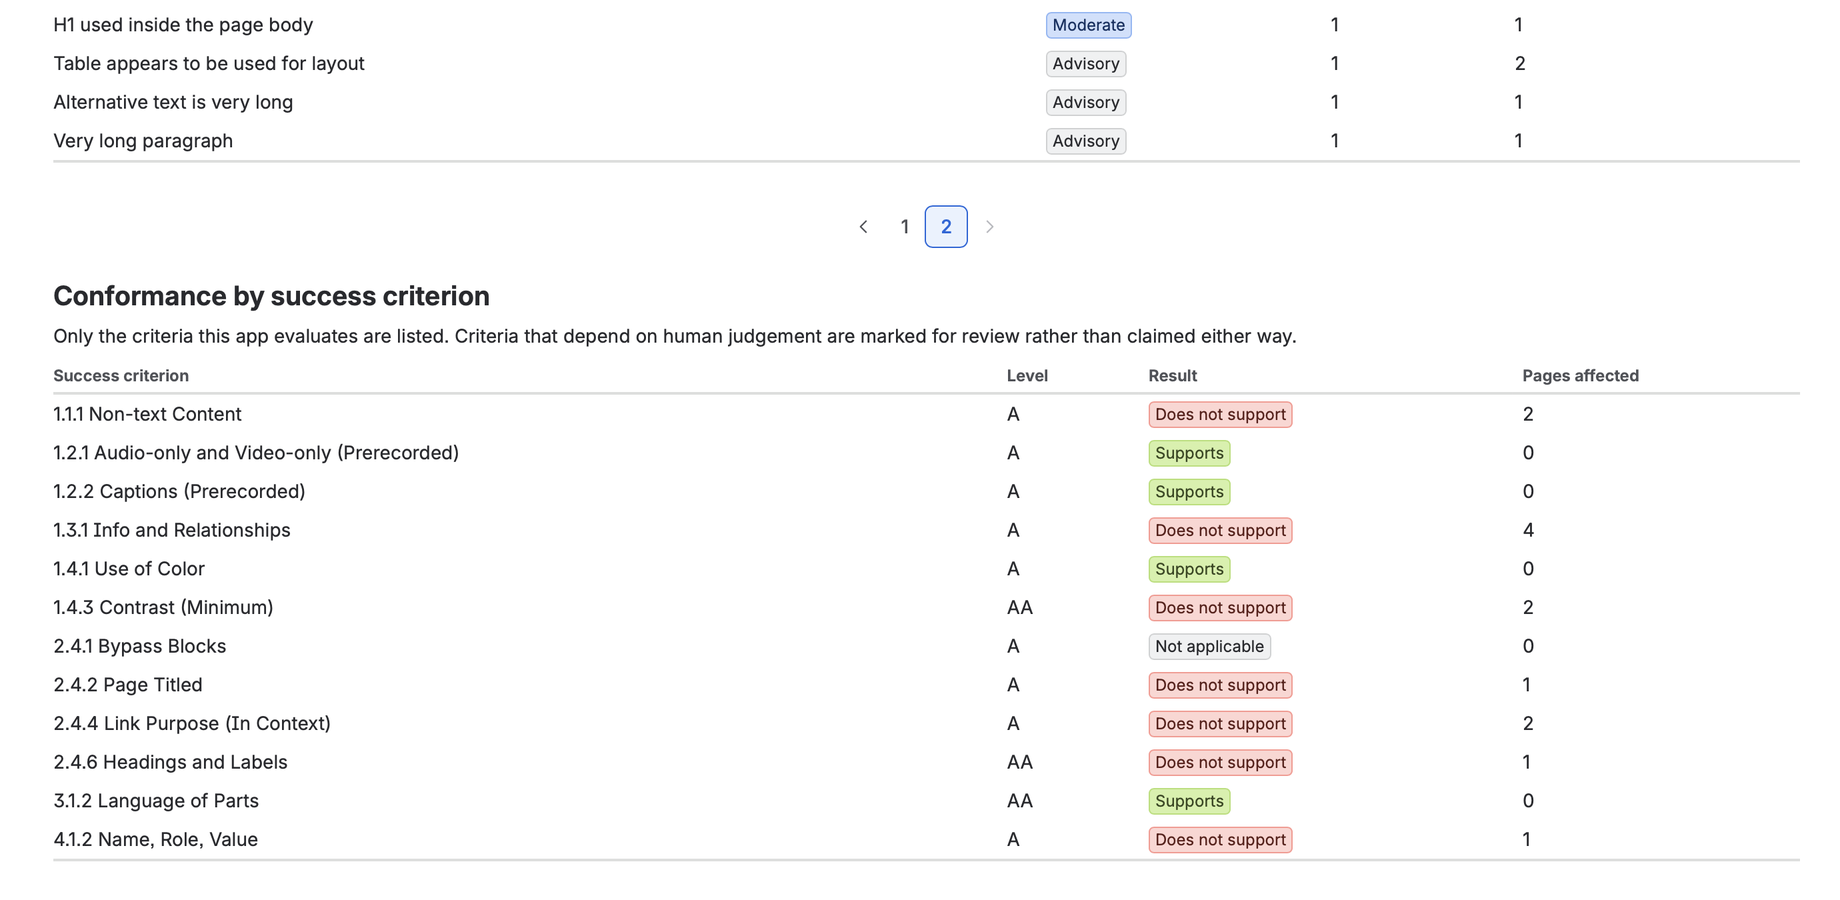
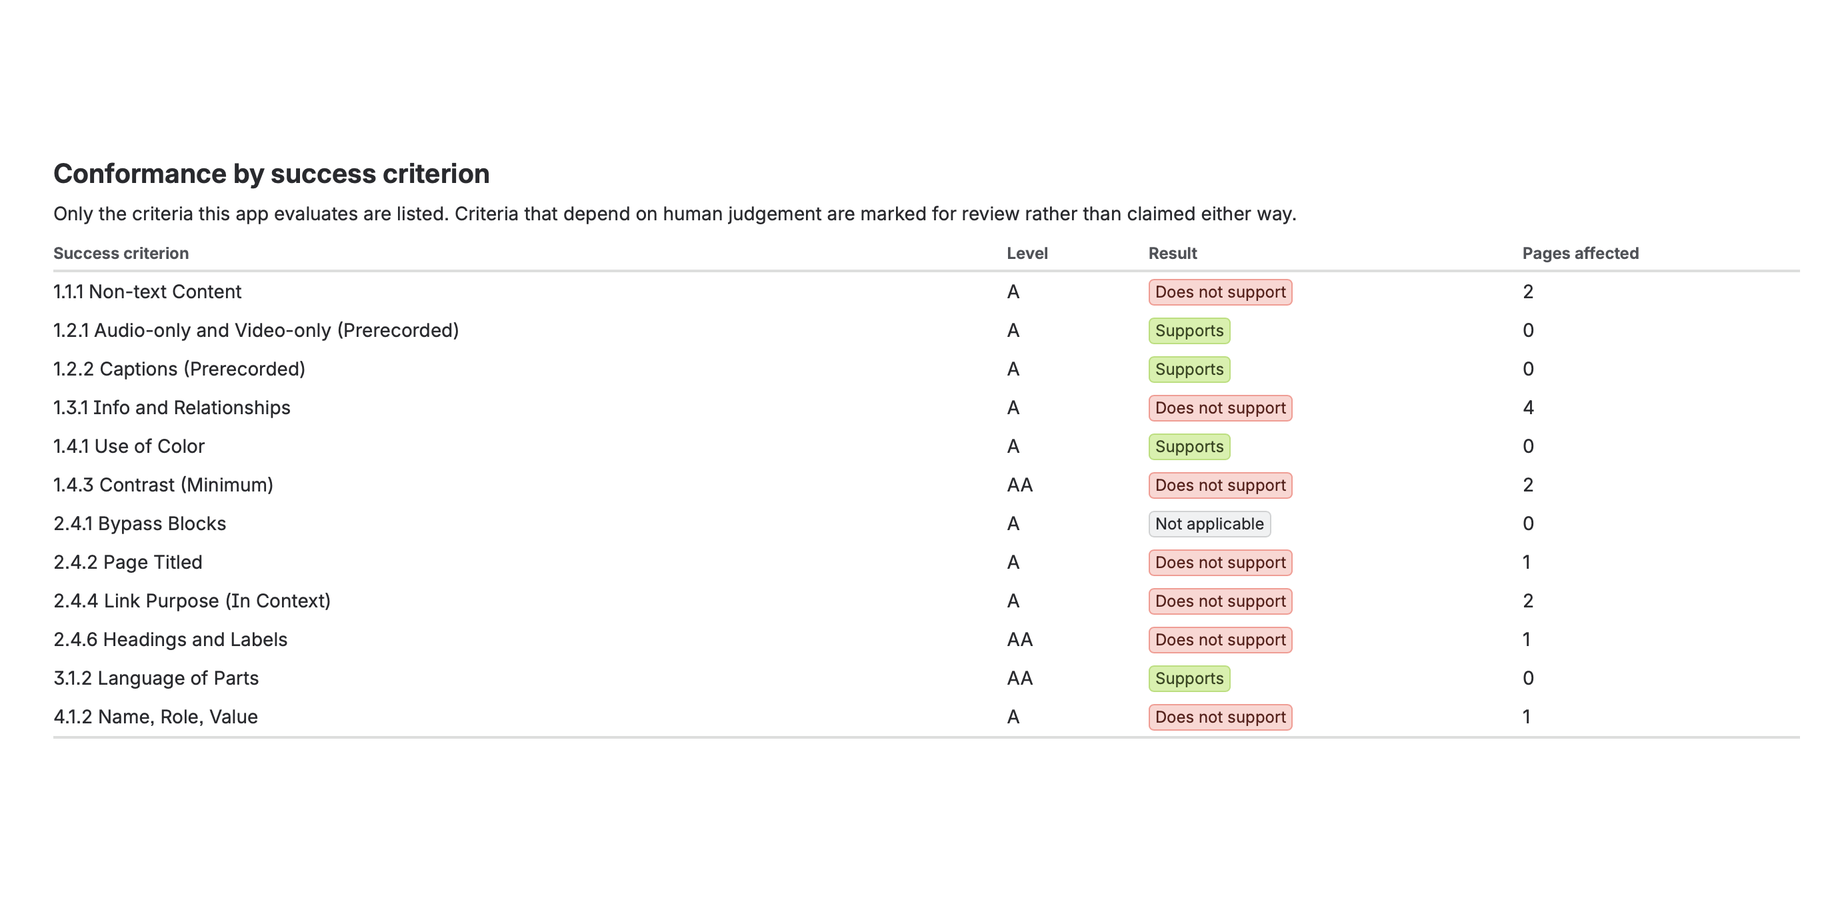
Encode the handover constraints as a check instead of remembering them
The owner has been catching things I should have: images made before reading the
form's required sizes, crops that trimmed table columns, an app name that broke
Atlassian's <App Name> for <Product> rule, and category advice drawn from a
catalogue snapshot whose taxonomy the form had replaced.

Listing copy now lives in docs/listing.json, and tools/preflight.mjs checks it
against the limits that actually apply: character caps, trailing punctuation,
the naming rule, exact image dimensions, and whether any published rule count
has drifted from what the engine ships. 24 checks, all passing.

The listing docs are corrected too: the rejected name is gone, the categories
section says to read the live list rather than trusting a stale taxonomy, and
the screenshot plan matches the four images that exist.

diff --git a/docs/marketplace-listing.md b/docs/marketplace-listing.md
@@ -4,21 +4,30 @@ Everything below is the copy to paste into the listing form. Character counts ar
 Atlassian limits at time of writing; re-check them in the form.
 
 ## App name (≤ 60)
-`Accessibility Checker for Confluence — WCAG, ADA, 508`
-(53 characters)
+`WCAG & ADA Accessibility Checker for Confluence`
+(47 characters)
 
-Reasoning: the name is the strongest ranking signal in Marketplace search, and it is also
-what shows in Google results for “confluence accessibility”. The three standards are the
-terms compliance buyers search for by name.
+Atlassian enforces a naming rule: when the name contains one of their product names it
+must read `<App Name> for <Product Name>`, with nothing after the product. An earlier
+version ending in "— WCAG, ADA, 508" was rejected by the form. The keywords therefore sit
+in front, which keeps the search terms and satisfies the rule.
 
 ## Summary / tagline (≤ 140)
 `Check every page against WCAG 2.2, fix issues in place, and publish the conformance report your auditor asks for.`
 (112 characters)
 
 ## Categories
-1. **Admin tools** — where site administrators browse.
-2. **Documentation** — where the content owners browse.
-3. **Reports** — the report is half the value.
+
+The form allows **two**, and uses a taxonomy that replaced the one in `research/`. Read the
+list off the form rather than trusting any category name written here. Choose, in order of
+preference:
+
+1. Anything naming compliance, governance, security or risk — that is the buyer's shelf.
+2. Otherwise `Content and communication` — the app works on content.
+3. Otherwise `Administrative tools` — the admin installs and pays.
+
+Not `Data and analytics`: it is for business data analysis, and the people browsing it are
+not looking for us.
 
 ## Highlights
 

diff --git a/docs/launch-runbook.md b/docs/launch-runbook.md
@@ -7,7 +7,8 @@ this machine, and each step lists how it is verified.
 
 | Check | Command | State |
 |---|---|---|
-| Engine tests | `npm --workspace @clearwren/a11y-engine test` | 28 passing |
+| Listing and asset rules | `node tools/preflight.mjs` | 24 checks passing |
+| Engine tests | `npm --workspace @clearwren/a11y-engine test` | 36 passing |
 | Manifest schema | `node tools/validate-manifest.mjs` | valid |
 | Backend bundles | `npx esbuild src/index.js --bundle --platform=node` | clean |
 | All four UI entries bundle | esbuild per resource | clean |
@@ -40,7 +41,7 @@ engine's own expectations.
 
 ## Phase 3 — listing (days 5–8)
 
-1. Take the five screenshots listed in `docs/marketplace-listing.md`.
+1. Produce the four images at the sizes the form requires, listed in `docs/marketplace-listing.md`.
 2. Create the listing with the copy in that file; set the pricing tiers exactly as given.
 3. Point the required URLs at `clearwren.com`.
 4. Complete the security questionnaire — the app makes no egress calls, stores no personal

diff --git a/README.md b/README.md
@@ -28,7 +28,14 @@ have to exist before the app can be registered and listed.
 ## Pre-flight checks that run without an Atlassian account
 
 ```bash
+node tools/preflight.mjs           # everything below, plus the listing rules — run this first
 node tools/validate-manifest.mjs   # manifest.yml against the schema in @forge/manifest
 node tools/selfcheck.mjs           # our own site, checked by our own engine
 node tools/validate.mjs            # the engine against saved real-world pages
 ```
+
+`preflight.mjs` encodes the constraints of the systems we hand work to: image dimensions,
+character limits, Atlassian's `<App Name> for <Product>` naming rule, and whether any
+published claim has drifted from what the engine ships. Every rule in it is there because
+getting it wrong once cost a round trip. Listing copy lives in `docs/listing.json` so those
+limits can be checked rather than remembered.

diff --git a/docs/listing-form-values.md b/docs/listing-form-values.md
@@ -12,7 +12,7 @@ Everything below is final copy. Nothing needs writing, only pasting.
 
 **Name**
 ```
-Accessibility Checker for Confluence — WCAG, ADA, 508
+WCAG & ADA Accessibility Checker for Confluence
 ```
 
 **Summary** (shown under the name in search results)
@@ -20,10 +20,9 @@ Accessibility Checker for Confluence — WCAG, ADA, 508
 Check every page against WCAG 2.2, fix issues in place, and publish the conformance report your auditor asks for.
 ```
 
-**Categories**
-1. Admin tools
-2. Documentation
-3. Reports
+**Categories** — the form allows two, from a taxonomy that replaced the one in `research/`.
+Read the options off the form. Prefer any compliance or governance category; otherwise
+`Content and communication` plus `Administrative tools`.
 
 **Logo** — `brand/clearwren-logo-512.png`
 
